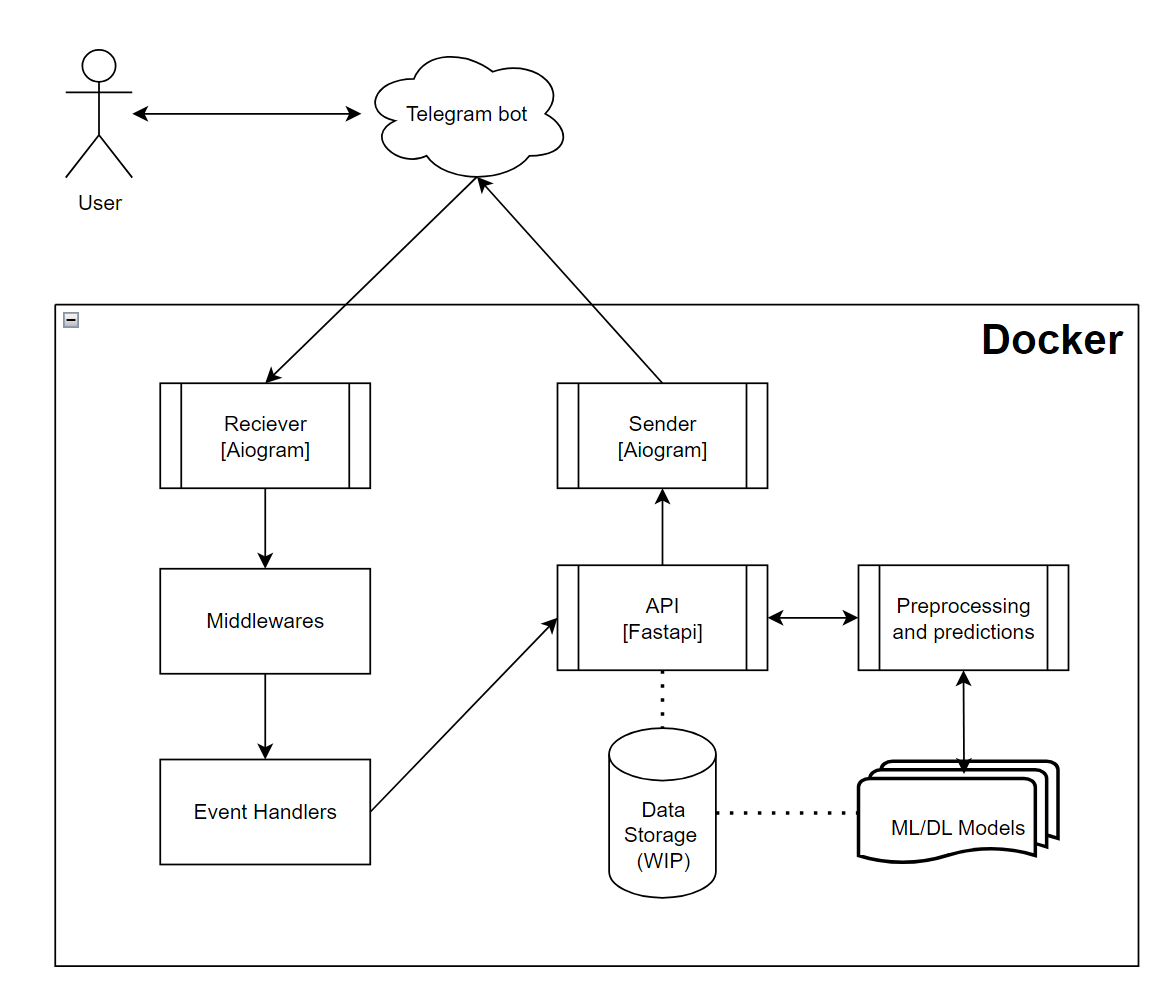
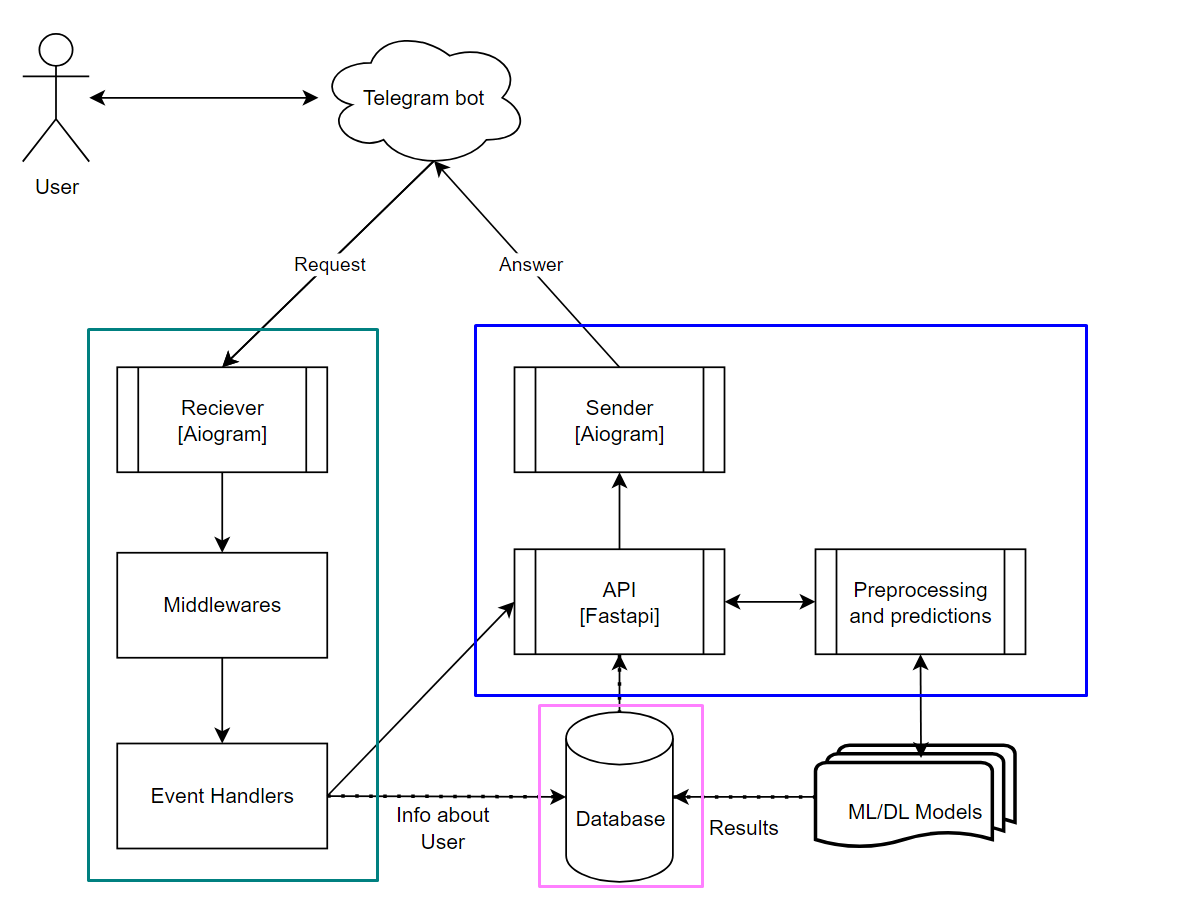
edit readme.md

diff --git a/README.md b/README.md
@@ -13,14 +13,14 @@ https://github.com/gbull25/signs-classification/assets/79256016/39836018-8c9c-4e
 - [Телеграм бот](https://hub.docker.com/repository/docker/gbull25/tg_bot/general)
 - [Фастапи сервис](https://hub.docker.com/repository/docker/gbull25/sign_classifier/general)
 
-## Процесс запуска сервиса
+## Процесс запуска сервисов
 
 В данной ветке, в отличие от остальных, присутствует скрытый файл .env с переменными окружения для БД и Redis.
 
 Процесс запуска проекта:
 
 1. Склонировать репозиторий 
-2.(Опционально) Если вы планируете использовать Telegram бота: создать бота, положить .env файл с заполенной переменной окружения BOT_TOKEN в директорию signs_classification/services/tg_bot
+2. (Опционально) Если вы планируете использовать Telegram бота: создать бота, положить .env файл с заполенной переменной окружения BOT_TOKEN в директорию signs_classification/services/tg_bot
 3. Перейти в директорию signs_classification/services
 4. Выполнить команду **docker-compose build**, а затем **docker compose up**
 
@@ -251,17 +251,21 @@ https://github.com/gbull25/signs-classification/assets/79256016/39836018-8c9c-4e
 
 На данный момент оба модуля упакованы в два докер контейнера. Телеграм бот отвечает на запросы пользователя, используя функционал сервиса FastAPI.
 
-![Alt Text](readme_data/workflow.png)
+Так выглядит процесс обработки инпута:
+
+![тут должна быть картинка..](readme_data/dataflow.png)
+
+![тут должна быть картинка..](readme_data/workflow.png)
 
 Ниже на гифках краткая демонстрация функционала веб-интерфейса и Телеграм бота.
 
 Веб-интерфейс FastAPI
 
-![Alt Text](readme_data/fastapi.gif)
+![тут должна быть картинка..](readme_data/fastapi.gif)
 
 Телеграм бот
 
-![Alt Text](readme_data/tg_bot.gif)
+![тут должна быть картинка..](readme_data/tg_bot.gif)
 
 
 ## Планы по развитию проекта
